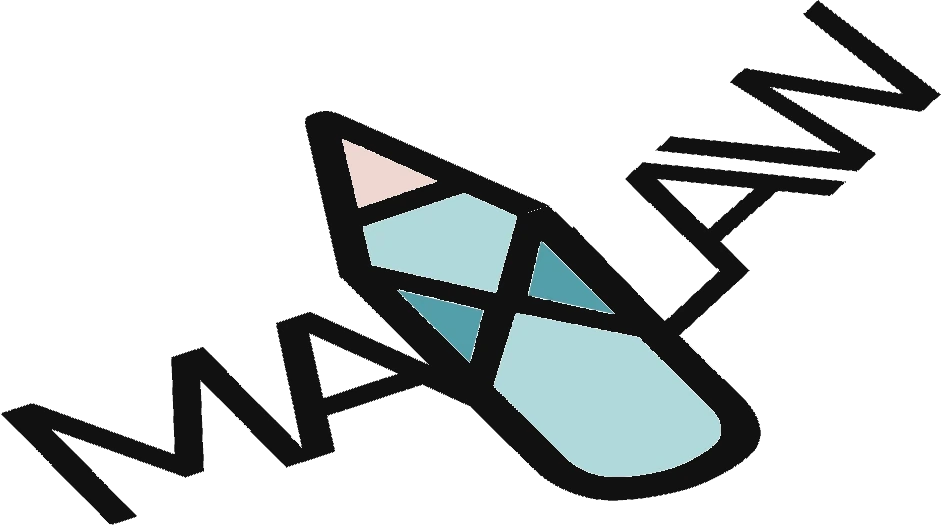
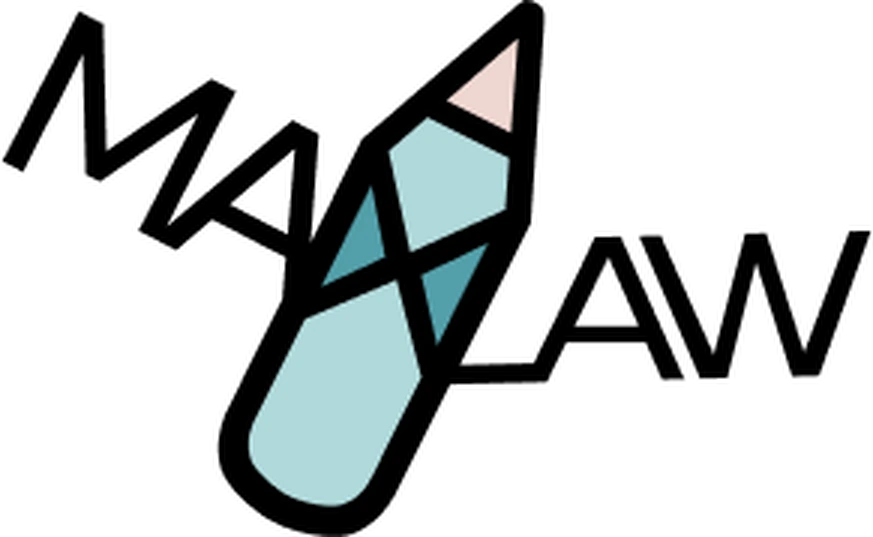
Новый логотип MAXLAW, убраны наложения картинок на текст
Claude-Session: https://claude.ai/code/session_01TAVb3k2eDs7CUr54PpudCd

diff --git a/assets/css/project.css b/assets/css/project.css
@@ -1167,13 +1167,6 @@ body.t-plat{background:var(--canvas) var(--tex) 0 0/600px 600px repeat}
 .team i,.fin dt{font-size:12px}
 @media (max-width:860px){.bl{font-size:12px!important}.pains li{font-size:14px}}
 
-/* ноутбук: рамка экрана и корпус нарисованы стилями, скриншот лежит ровно внутри */
-.lap{position:relative;display:block;width:100%;filter:drop-shadow(0 28px 34px rgba(0,0,0,.32))}
-.lap-scr{position:relative;display:block;margin:0 7%;padding:2.2% 2.2% 2.6%;background:#1b1b1d;border-radius:14px 14px 6px 6px;box-shadow:inset 0 0 0 1px #3a3a3d}
-.lap-scr::before{content:"";position:absolute;left:50%;top:0;width:12%;height:2.4%;min-height:6px;transform:translateX(-50%);background:#1b1b1d;border-radius:0 0 8px 8px;z-index:2}
-.lap-scr img{display:block;width:100%;aspect-ratio:1600/1040;object-fit:cover;object-position:top;border-radius:4px;background:#fff}
-.lap-base{display:block;height:0;padding-top:3.2%;margin-top:-1px;background:linear-gradient(#d9dade,#a9abb0 55%,#8d8f94);border-radius:0 0 18px 18px/0 0 60% 60%;position:relative}
-.lap-base::after{content:"";position:absolute;left:50%;top:0;width:16%;height:38%;transform:translateX(-50%);background:#b8babe;border-radius:0 0 10px 10px}
 .flow-lap .lap-scr{display:grid}
 .flow-lap .lap-scr img{grid-area:1/1;opacity:0;transition:opacity 450ms ease;cursor:zoom-in}
 .flow-lap .lap-scr img.on{opacity:1}
@@ -1206,3 +1199,13 @@ body.t-plat{background:var(--canvas) var(--tex) 0 0/600px 600px repeat}
 .iri-steps li.hl b,.iri-steps li.hl::before{color:#111}
 .sd-stage img:not(.on),.flow-lap .lap-scr img:not(.on){pointer-events:none;visibility:hidden}
 .sd-stage img.on,.flow-lap .lap-scr img.on{visibility:visible}
+.cd figcaption{margin-top:14px}
+@media (max-width:860px){.proj-hero .art{margin-top:28px}}
+.t-iri .proj-hero .txt{position:relative;z-index:2}
+.iri-art .iri-lap{left:4%;width:96%}
+.iri-sheet h1{line-height:1.22}
+.iri-band{padding:.1em .18em .04em}
+.t-iri .proj-hero .meta-row{position:relative;z-index:2;background:#fff;box-shadow:0 0 0 12px #fff}
+.t-iri .proj-hero::before{-webkit-mask:linear-gradient(#000 calc(100% - 200px),transparent calc(100% - 150px));mask:linear-gradient(#000 calc(100% - 200px),transparent calc(100% - 150px))}
+.t-iri .proj-hero .meta-row{background:none;box-shadow:none}
+@media (max-width:860px){.t-iri .proj-hero::before{-webkit-mask:linear-gradient(transparent,#000 25%,#000 45%,transparent 58%);mask:linear-gradient(transparent,#000 25%,#000 45%,transparent 58%);height:70%;bottom:auto;top:30%}}

diff --git a/projects/iri-maxlaw.html b/projects/iri-maxlaw.html
@@ -57,7 +57,7 @@
       </div>
       <div class="art iri-art" aria-label="Наклейки проекта">
         <span class="st iri-lap" data-drag style="--r:-3deg;--k:0"><span class="lap"><span class="lap-scr"><img src="../assets/img/iri/scr-cab.webp" width="1600" height="1058" alt="Кабинет сервиса MAXLAW: список претензий, статусы, риски и текст документа"></span><span class="lap-base"></span></span></span>
-        <span class="st iri-logo" data-drag style="--r:6deg;--k:1"><span class="iri-chip dark"><img src="../assets/img/iri/maxlaw-light.webp" width="941" height="525" alt="Логотип MAXLAW"></span></span>
+        <span class="st iri-logo" data-drag style="--r:6deg;--k:1"><span class="iri-chip dark"><img src="../assets/img/iri/maxlaw-light.webp" width="873" height="537" alt="Логотип MAXLAW"></span></span>
         <span class="st iri-org" data-drag style="--r:-7deg;--k:2"><span class="iri-chip"><img src="../assets/img/iri/iri-dark.webp" width="634" height="265" alt="Логотип ИРИ — Институт развития интернета"></span></span>
       </div>
       <div class="meta-row"><div><b>Год</b><span>2025</span></div><div><b>Роль</b><span>Разработчик и дизайнер: сервис MAXLAW и ИИ</span></div><div><b>Команда</b><span>5 человек</span></div><div><b>Для кого</b><span>ИРИ — Институт развития интернета</span></div></div>
@@ -159,7 +159,7 @@
   <section class="pband iri-sol" id="maxlaw" aria-labelledby="sol-h">
     <div class="wrap">
       <div class="sol-top">
-        <img class="sol-logo" src="../assets/img/iri/maxlaw-light.webp" width="941" height="525" alt="Логотип MAXLAW">
+        <img class="sol-logo" src="../assets/img/iri/maxlaw-light.webp" width="873" height="537" alt="Логотип MAXLAW">
         <div class="sub" style="padding:0"><h3 id="sol-h" class="iri-h"><small>Второй период · Что сделал</small>Сервис MAXLAW</h3><p>Сервис с ИИ-алгоритмом, который решает любую претензию. На мне разработка и визуализация сервиса. Нажимайте на шаги, чтобы увидеть экран.</p></div>
       </div>
       <div class="flow">

diff --git a/assets/css/site.css b/assets/css/site.css
@@ -686,3 +686,20 @@ img[data-zoom]{cursor:zoom-in}
 
 @font-face{font-family:"Unbounded Sans";src:url(../fonts/unbounded-sans.woff2) format("woff2");font-weight:400;font-display:swap}
 .iri-stage .il{width:80%!important;left:2%;bottom:6%!important;transform:rotate(-2deg)}
+
+/* ноутбук: рамка экрана и корпус нарисованы стилями, скриншот лежит ровно внутри */
+.lap{position:relative;display:block;width:100%;filter:drop-shadow(0 28px 34px rgba(0,0,0,.32))}
+.lap-scr{position:relative;display:block;margin:0 7%;padding:2.2% 2.2% 2.6%;background:#1b1b1d;border-radius:14px 14px 6px 6px;box-shadow:inset 0 0 0 1px #3a3a3d}
+.lap-scr::before{content:"";position:absolute;left:50%;top:0;width:12%;height:2.4%;min-height:6px;transform:translateX(-50%);background:#1b1b1d;border-radius:0 0 8px 8px;z-index:2}
+.lap-scr img{display:block;width:100%;aspect-ratio:1600/1040;object-fit:cover;object-position:top;border-radius:4px;background:#fff}
+.lap-base{display:block;height:0;padding-top:3.2%;margin-top:-1px;background:linear-gradient(#d9dade,#a9abb0 55%,#8d8f94);border-radius:0 0 18px 18px/0 0 60% 60%;position:relative}
+.lap-base::after{content:"";position:absolute;left:50%;top:0;width:16%;height:38%;transform:translateX(-50%);background:#b8babe;border-radius:0 0 10px 10px}
+.iri-stage .il{display:block}
+.iri-stage .lap-scr img{object-position:top left}
+
+/* Наклейки и картинки не наезжают на текст на промежуточных ширинах */
+@media (min-width:901px) and (max-width:1240px){
+  .hero-top .st:nth-child(2){left:66%!important;top:30%!important}
+  .hero-top .st:nth-child(5){left:84%!important;top:62%!important}
+}
+@media (max-width:900px){.odk-fan{min-height:calc(min(34vw,262px) * 1.45 + 24px)}}

diff --git a/index.html b/index.html
@@ -212,7 +212,7 @@
           </div>
           <div class="iri-stage" aria-hidden="true">
             <span class="il"><span class="lap"><span class="lap-scr"><img src="assets/img/iri/scr-cab.webp" alt="" width="1600" height="1058" loading="lazy"></span><span class="lap-base"></span></span></span>
-            <span class="ic"><img src="assets/img/iri/maxlaw-light.webp" alt="" width="941" height="525" loading="lazy"></span>
+            <span class="ic"><img src="assets/img/iri/maxlaw-light.webp" alt="" width="873" height="537" loading="lazy"></span>
           </div>
         </a>
       </div>
